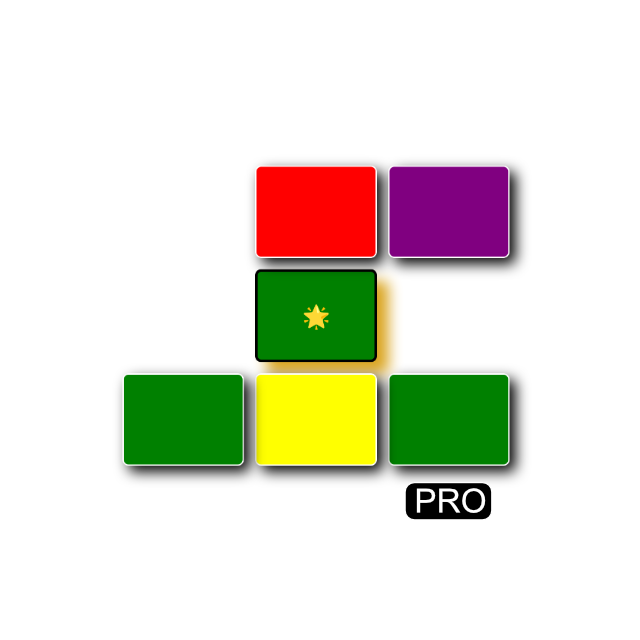
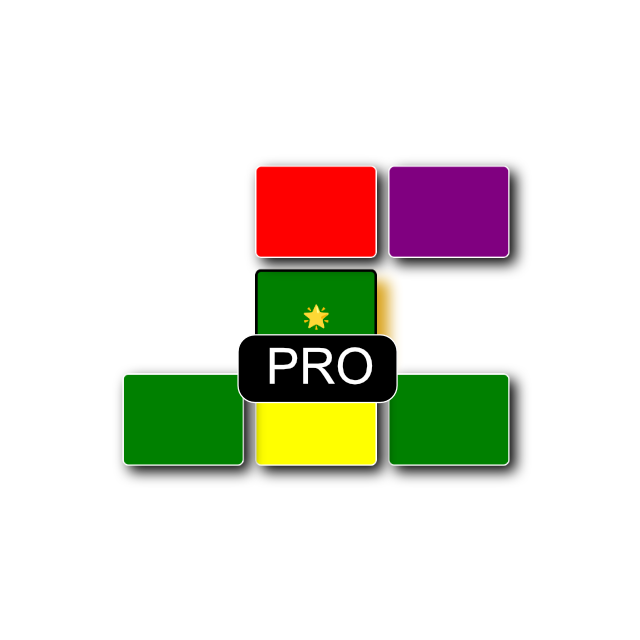
Fixed problems with pro version creation

Changed region(s): [[0.3438, 0.5, 0.625, 0.6562], [0.625, 0.75, 0.7812, 0.8125]]

diff --git a/src/ColorValley/SplashPage.xaml b/src/ColorValley/SplashPage.xaml
@@ -8,7 +8,14 @@
         
 
         <Image Margin="50"
+               x:Name="ImageColorValley"
                Source="logo_color_valley.png"
+               VerticalOptions="Center" 
+               HorizontalOptions="Center" />
+
+        <Image Margin="50"
+               x:Name="ImageColorValleyPro"
+               Source="logo_color_valley_pro.png"
                VerticalOptions="Center" 
                HorizontalOptions="Center" />
 
@@ -22,7 +29,7 @@
                FontAttributes="Bold"
          />
 
-        <Label Text="Color Valley Pro"
+        <Label Text="Color Valley"
                x:Name="LabelAppNameColorValleyPro"
                VerticalOptions="Center" 
                HorizontalOptions="Center"

diff --git a/src/ColorValley/SplashPage.xaml.cs b/src/ColorValley/SplashPage.xaml.cs
@@ -20,12 +20,18 @@ public partial class SplashPage : ContentPage
 
         this.LabelSplashWelcomePro.IsVisible = true;
         this.LabelSplashWelcome.IsVisible = false;
+
+        this.ImageColorValleyPro.IsVisible = true;
+        this.ImageColorValley.IsVisible = false;
 #else
         this.LabelAppNameColorValleyPro.IsVisible = false;
         this.LabelAppNameColorValley.IsVisible = true;
 
         this.LabelSplashWelcomePro.IsVisible = false;
         this.LabelSplashWelcome.IsVisible = true;
+
+        this.ImageColorValleyPro.IsVisible = false;
+        this.ImageColorValley.IsVisible = true;
 #endif
     }
 
@@ -96,7 +102,7 @@ public partial class SplashPage : ContentPage
         await Task.Run(async () =>
         {
             await Task.Delay(2000);
-            ShowMainPage();
+            await MainThread.InvokeOnMainThreadAsync(ShowMainPage);
         });
     }
 #endif

diff --git a/src/ColorValley/Models/HighScoreEntry.cs b/src/ColorValley/Models/HighScoreEntry.cs
@@ -10,7 +10,8 @@ public class HighScoreEntry
     /// <summary>
     /// The rank or trophy
     /// </summary>
-    public string RankOrTrophy { get; set; }
+    [JsonInclude]
+    public string RankOrTrophy { get; set; } = string.Empty;
 
     /// <summary>
     /// The high score value.
@@ -29,6 +30,6 @@ public class HighScoreEntry
     /// The name of the person that has created the high score.
     /// </summary>
     [JsonInclude]
-    public string Name { get; set; }
+    public string Name { get; set; } = string.Empty;
 }
 

diff --git a/src/ColorValley/MauiProgram.cs b/src/ColorValley/MauiProgram.cs
@@ -1,4 +1,6 @@
-#if !PRO_VERSION
+
+using Microsoft.Extensions.Logging;
+#if !PRO_VERSION
 using Plugin.AdMob;
 #endif
 
